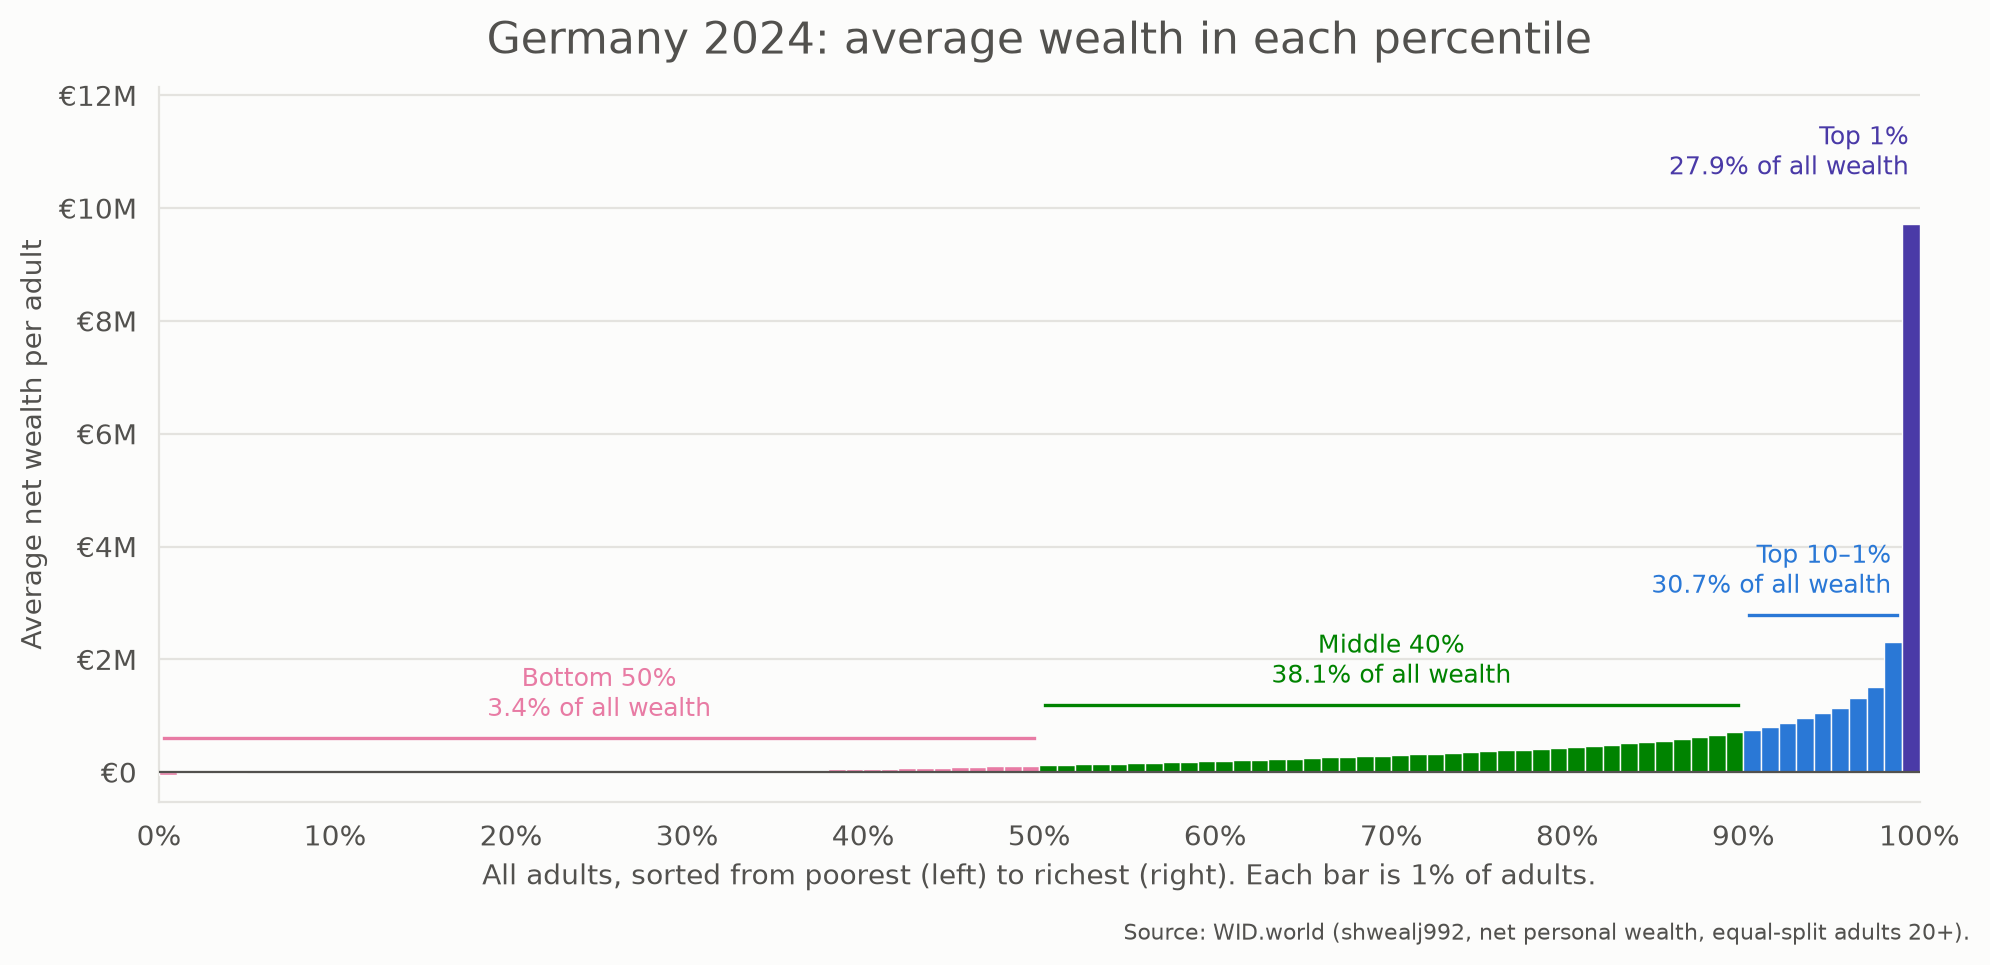
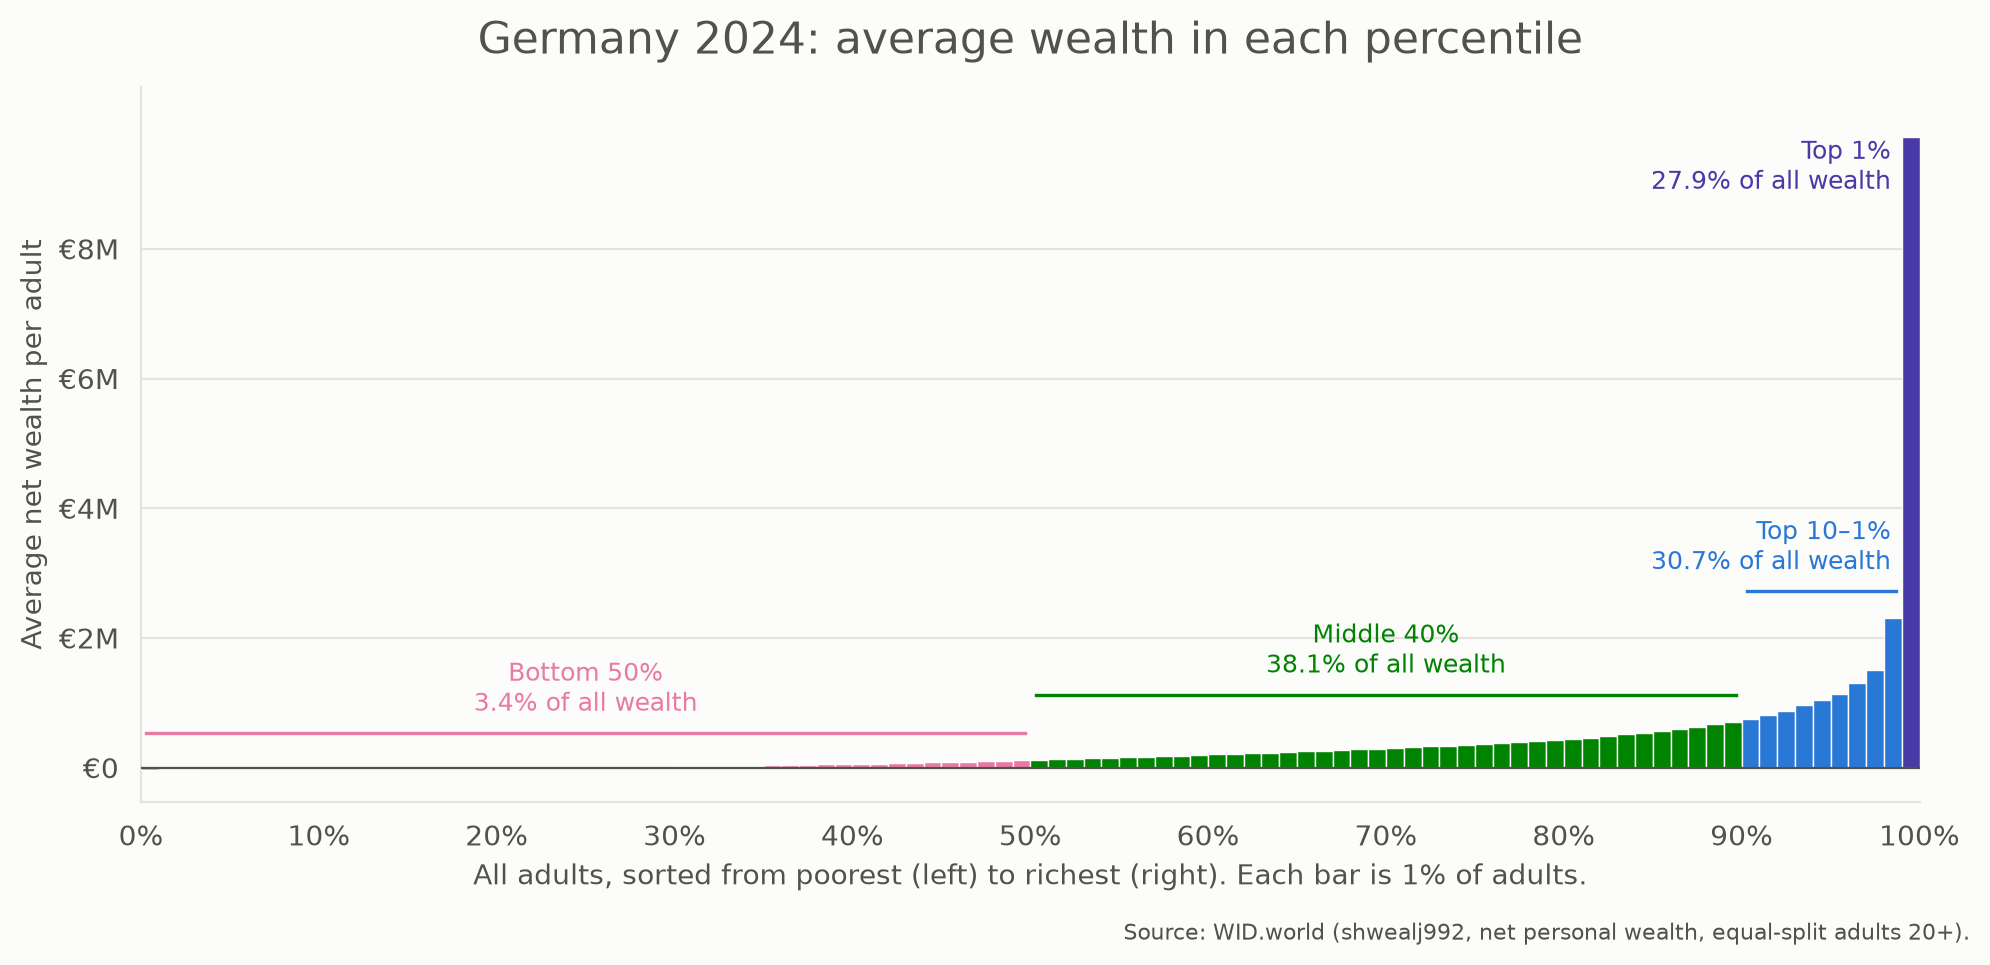
Percentile charts: readable light-purple text, trimmed ticks, side labels
- "Top 1-0.1%" text uses a darker purple of the same hue (4.7:1 contrast)
- no gridline above the tallest bar (drops e.g. €300M, €1.6bn); ticks stay
  inside the view so the axis is not stretched
- single-bar groups (top 1%, 0.01%, 0.001%) are labelled to the left of
  their bar, top-aligned with it; less headroom needed
- staircase: zoom labels sit above-right of the line so they never touch
  it; zoom lines are thinner
- author: Thomas Camminady

diff --git a/src/wid/plotting/percentile_bars.py b/src/wid/plotting/percentile_bars.py
@@ -31,6 +31,11 @@ class BarGroup:
     x0: float
     x1: float
     color: str
+    text_color: str | None = None  # for bar colours too light to read as text
+
+    @property
+    def label_color(self) -> str:
+        return self.text_color or self.color
 
 
 ALL_ADULTS_GROUPS: tuple[BarGroup, ...] = tuple(
@@ -39,7 +44,8 @@ ALL_ADULTS_GROUPS: tuple[BarGroup, ...] = tuple(
 )
 # Inside the top 1%: the purple shades of the bar-of-donut chart, lightest first.
 TOP_PERCENT_GROUPS: tuple[BarGroup, ...] = (
-    BarGroup("Top 1–0.1%", 99.0, 99.9, TOP_PARTS[0].color),
+    # Same hue, darker (OKLCH L 0.56): 4.7:1 contrast instead of 2.3:1.
+    BarGroup("Top 1–0.1%", 99.0, 99.9, TOP_PARTS[0].color, text_color="#6c69b8"),
     BarGroup("Top 0.1–0.01%", 99.9, 99.99, TOP_PARTS[1].color),
     BarGroup("Top 0.01%", 99.99, 100.0, TOP_PARTS[-1].color),
 )
@@ -54,7 +60,7 @@ TOP_BASIS_POINT_GROUPS: tuple[BarGroup, ...] = (
 CENTRED_LABEL_MIN_FRACTION = 0.2
 NARROW_LABEL_INSET = 0.006  # fraction of the x range; keeps text off the next bar
 LABEL_LIFT = 0.04  # fraction of the y range between a group's tallest bar and label
-Y_HEADROOM = 1.25  # y range = tallest bar * this, room for the top label
+Y_HEADROOM = 1.08  # y range = tallest bar * this
 
 # Staircase layout (figure fractions): wide panels, each stepping right by a
 # fixed amount. That keeps the next panel left of centre under the zoomed bar
@@ -70,6 +76,7 @@ STAIRCASE_BOTTOMS: tuple[float, ...] = (0.71, 0.395, 0.08)
 # right-hand line's midpoint (points).
 ZOOM_LINE_START_Y = -0.12
 ZOOM_LABEL_OFFSET = 8.0
+ZOOM_LINE_WIDTH = 0.6
 
 
 def format_eur(value: float, _pos: int | None = None) -> str:
@@ -125,22 +132,35 @@ def draw_bars(
     # One label per group with the share of all wealth the whole group holds.
     for group in groups:
         idx = [i for i, x in enumerate(lo) if group.x0 <= x < group.x1]
-        y = max(max(avg[i] for i in idx), 0.0) + lift
+        text = f"{group.name}\n{sum(share[i] for i in idx):.1%} of all wealth"
+        tallest = max(max(avg[i] for i in idx), 0.0)
+        if len(idx) == 1:
+            # A single bar: label to its left, top-aligned with the bar.
+            ax.text(
+                group.x0 - NARROW_LABEL_INSET * x_range,
+                tallest,
+                text,
+                ha="right",
+                va="top",
+                fontsize=LABEL_FONTSIZE,
+                color=group.label_color,
+            )
+            continue
+        # Several bars: a bracket over them with the label above it.
+        y = tallest + lift
+        pad = 0.003 * x_range
+        ax.plot([group.x0 + pad, group.x1 - pad], [y, y], color=group.color, lw=1.2)
         wide = (group.x1 - group.x0) / x_range >= CENTRED_LABEL_MIN_FRACTION
-        if len(idx) > 1:
-            # Bracket over the group's bars.
-            pad = 0.003 * x_range
-            ax.plot([group.x0 + pad, group.x1 - pad], [y, y], color=group.color, lw=1.2)
         ax.text(
             (group.x0 + group.x1) / 2
             if wide
             else group.x1 - NARROW_LABEL_INSET * x_range,
             y + lift / 2,
-            f"{group.name}\n{sum(share[i] for i in idx):.1%} of all wealth",
+            text,
             ha="center" if wide else "right",
             va="bottom",
             fontsize=LABEL_FONTSIZE,
-            color=group.color,
+            color=group.label_color,
         )
 
     ax.set_xlim(x_min, x_max)
@@ -148,6 +168,10 @@ def draw_bars(
     ax.xaxis.set_major_locator(MultipleLocator(tick_step))
     ax.xaxis.set_major_formatter(FuncFormatter(lambda v, _: f"{v:g}%"))
     ax.yaxis.set_major_formatter(FuncFormatter(format_eur))
+    # No gridline above the tallest bar. Keep ticks inside the current limits
+    # too: set_yticks would otherwise stretch the axis to an out-of-view tick.
+    y_bottom = ax.get_ylim()[0]
+    ax.set_yticks([t for t in ax.get_yticks() if y_bottom <= t <= max(avg)])
     ax.set_xlabel(xlabel, color=INK_SECONDARY, loc=xlabel_loc)
     ax.set_ylabel("Average net wealth per adult", color=INK_SECONDARY)
 
@@ -282,11 +306,13 @@ def link_zoom(
                 xyB=(x, y_top),
                 coordsB=ax_to.transData,
                 color=INK_SECONDARY,
-                linewidth=0.8,
+                linewidth=ZOOM_LINE_WIDTH,
             )
         )
 
-    # Label just right of the right-hand line's midpoint, kept horizontal.
+    # Label just right of the right-hand line's midpoint, kept horizontal. Its
+    # bottom-left corner sits above the line, and the line falls away to the
+    # right, so the text never touches it.
     start_px = below_axis.transform(start)
     end_px = ax_to.transData.transform((x1, y_top))
     mid = fig.transFigure.inverted().transform((start_px + end_px) / 2)
@@ -295,11 +321,15 @@ def link_zoom(
         mid[1],
         label,
         ha="left",
-        va="center",
+        va="bottom",
         fontsize=LABEL_FONTSIZE + 1,
         color=INK_SECONDARY,
         transform=offset_copy(
-            fig.transFigure, fig=fig, x=ZOOM_LABEL_OFFSET, y=0.0, units="points"
+            fig.transFigure,
+            fig=fig,
+            x=ZOOM_LABEL_OFFSET,
+            y=ZOOM_LABEL_OFFSET / 2,
+            units="points",
         ),
     )
 

diff --git a/README.md b/README.md
@@ -1,5 +1,7 @@
 # wid
 
+Author: Thomas Camminady
+
 Wealth inequality in Germany at fine resolution, from the
 [World Inequality Database](https://wid.world) (WID.world).
 
